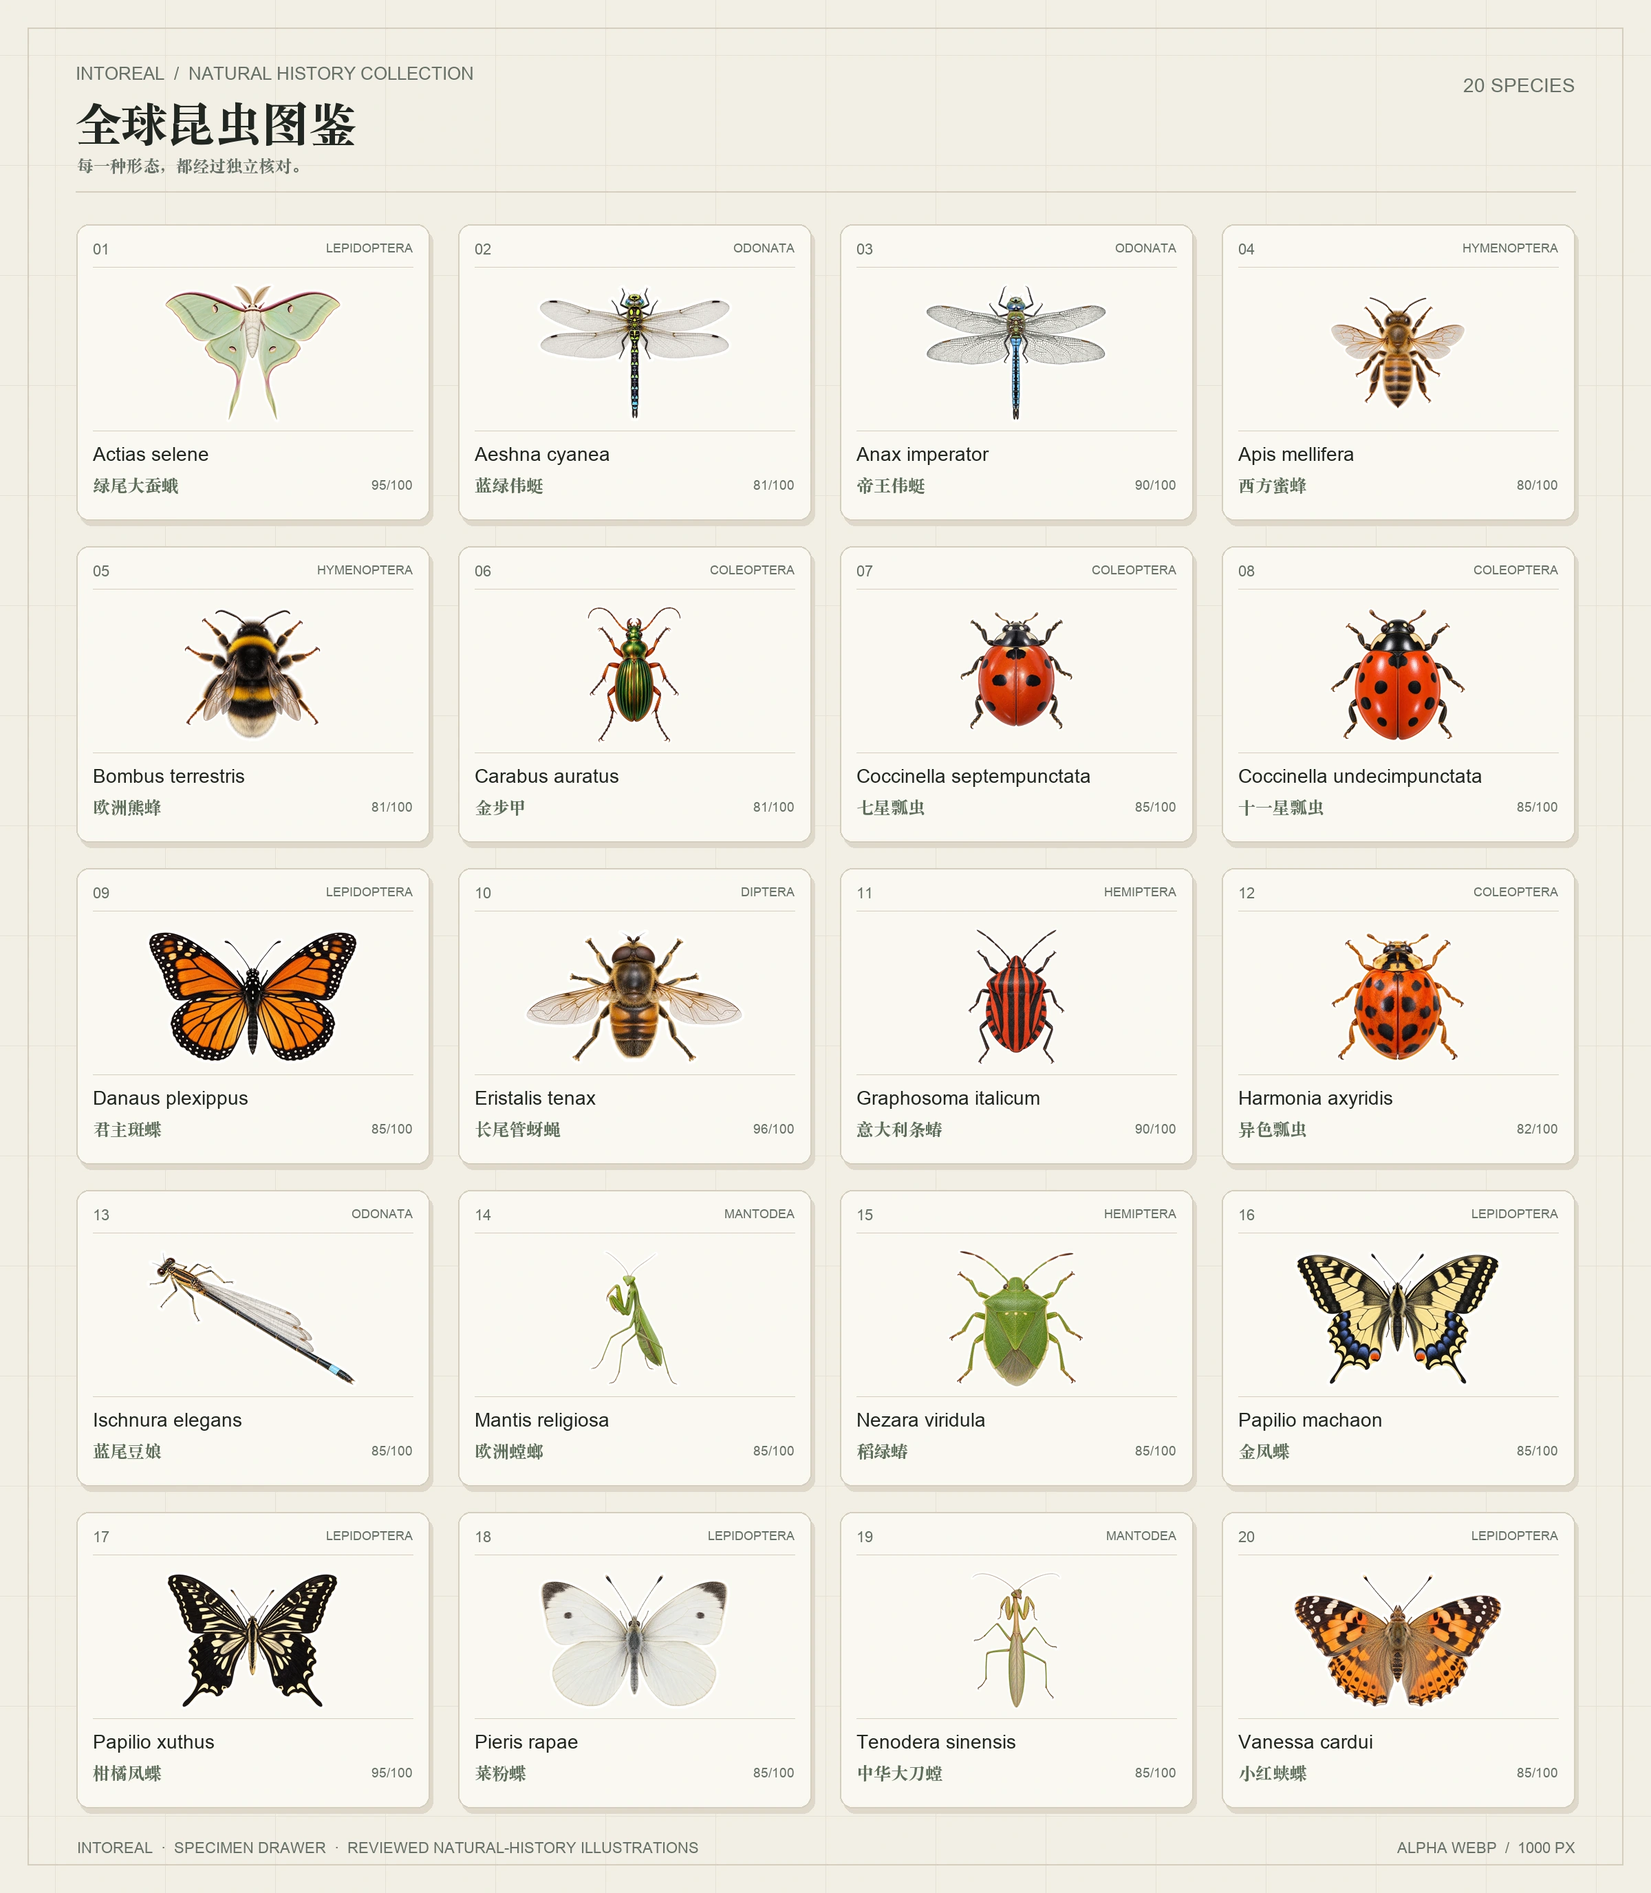
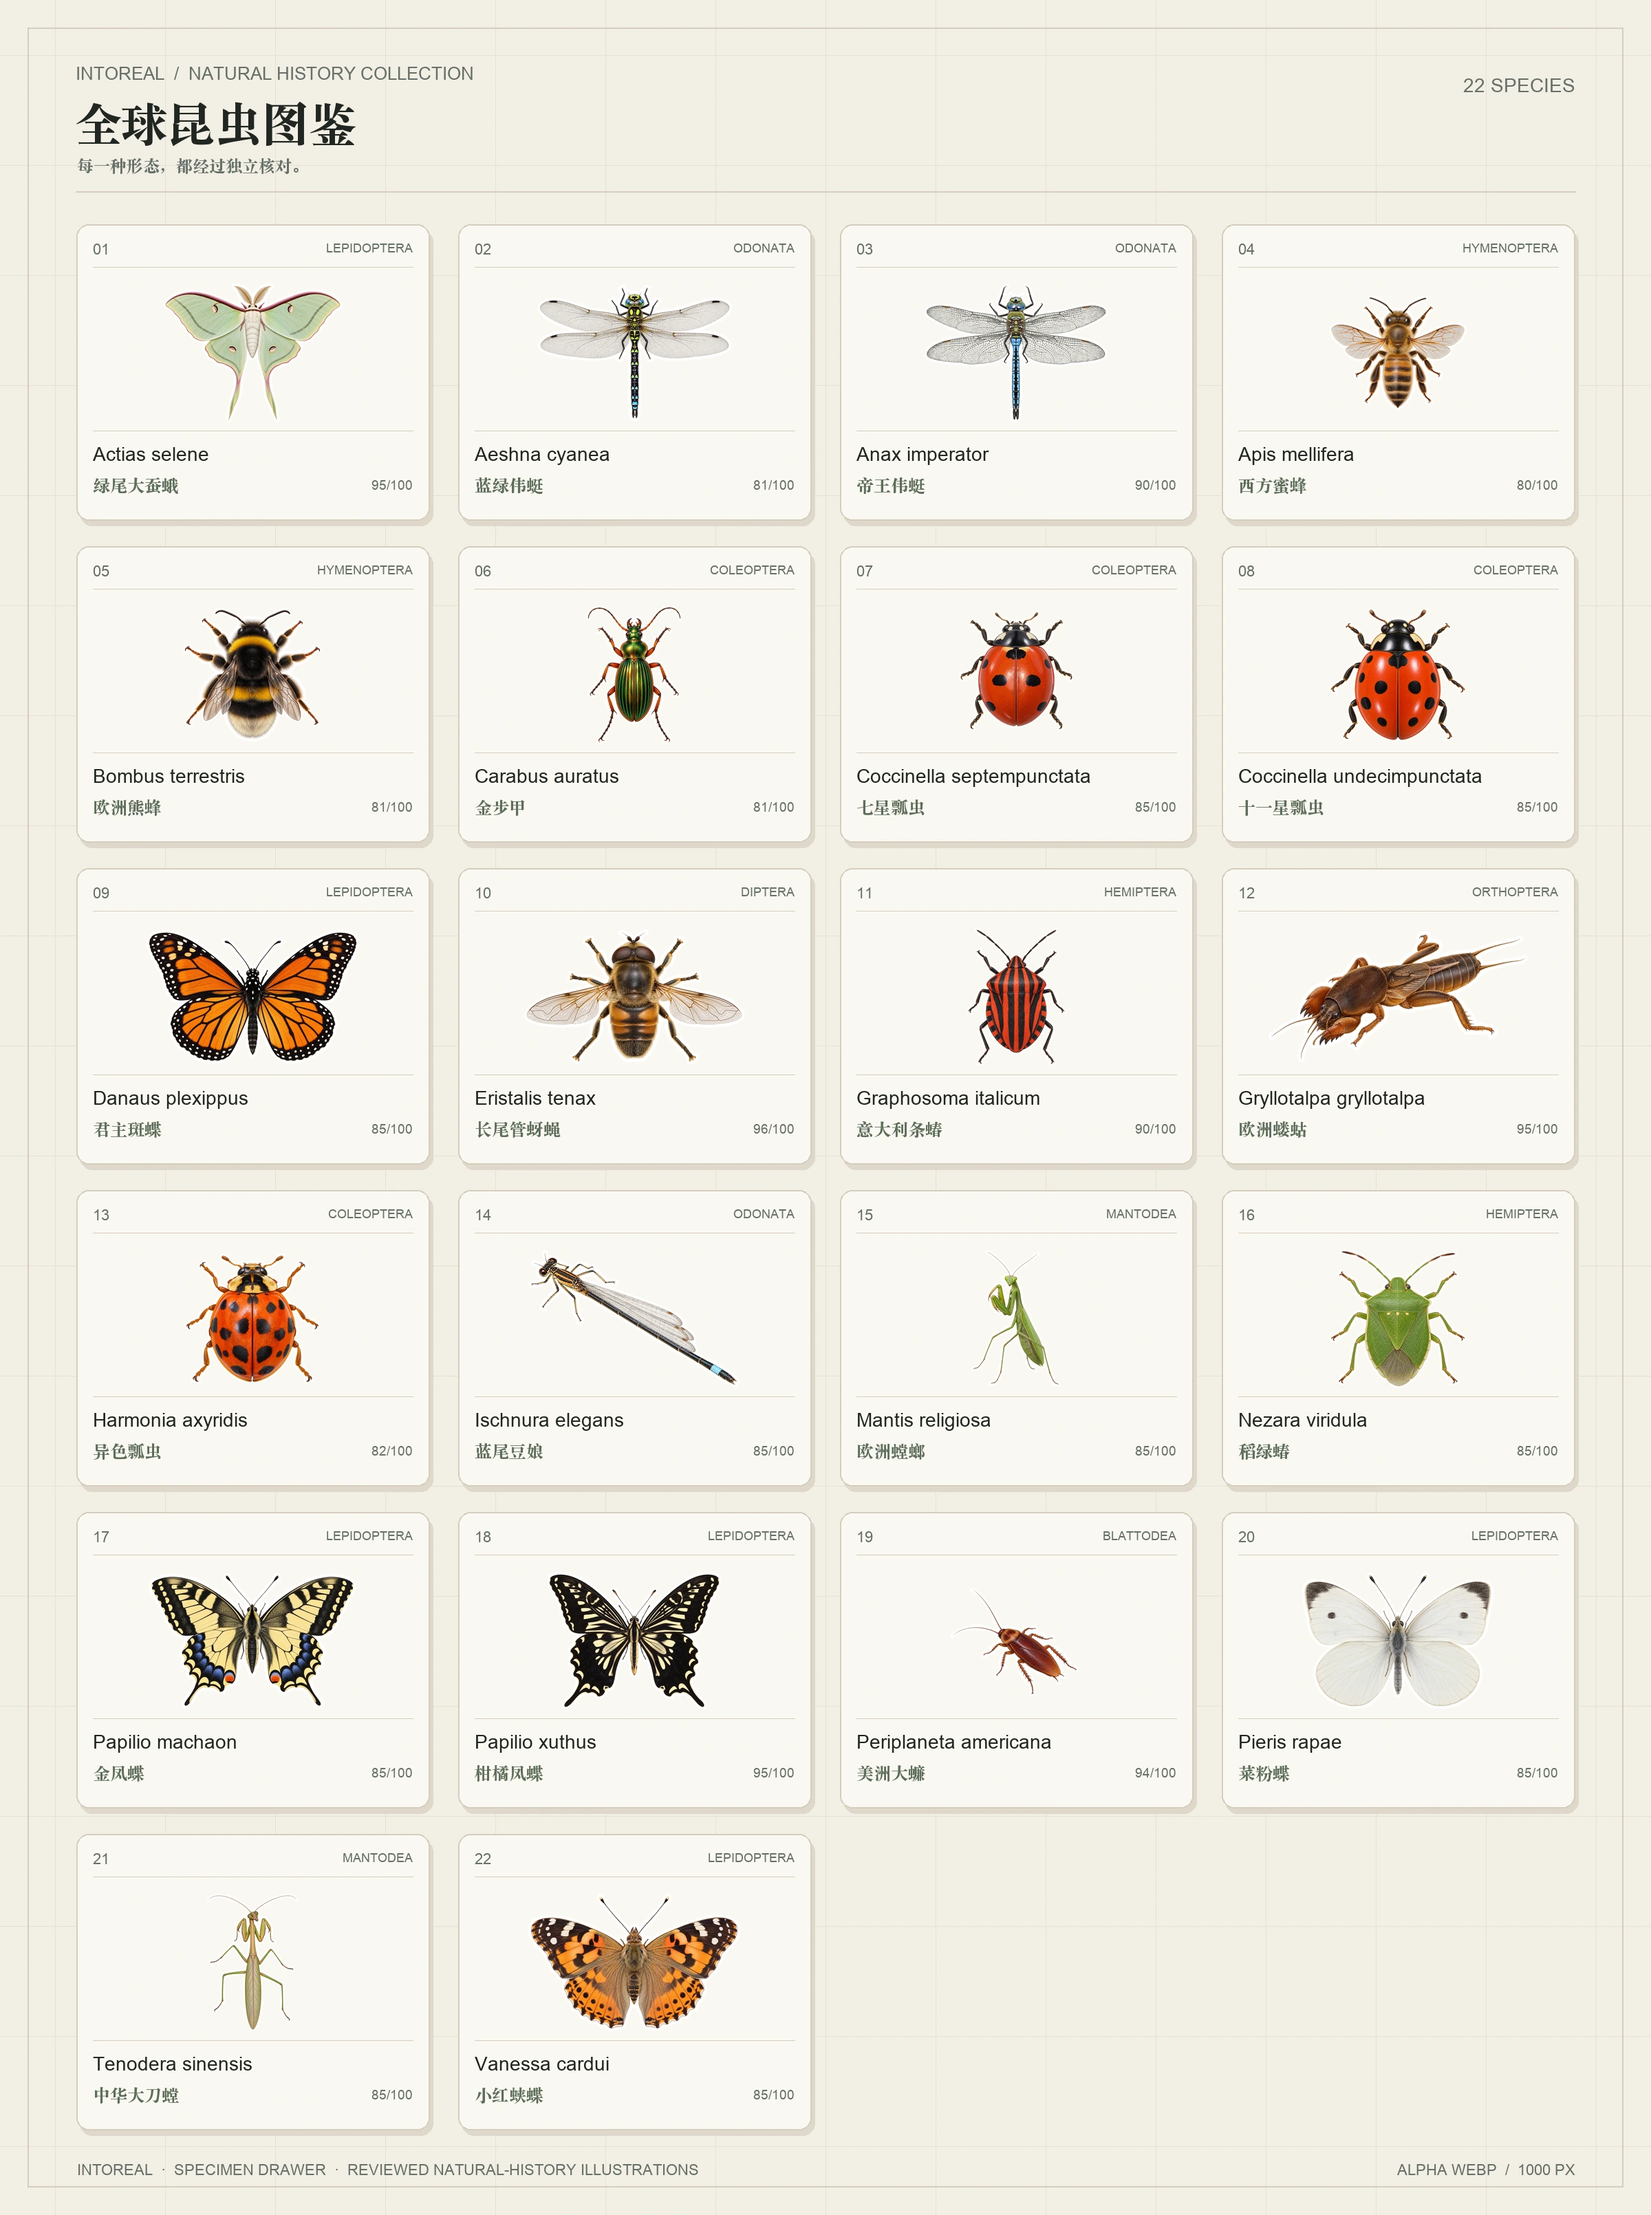
data: publish pilot insects and refresh field guides

diff --git a/tests/test_expansion_candidates.py b/tests/test_expansion_candidates.py
@@ -51,11 +51,12 @@ class ExpansionCandidateTests(unittest.TestCase):
                 self.assertIn(reference["imageReview"], {"pending", "approved"})
                 self.assertNotIn("localPath", reference)
 
-    def test_three_pilot_ready_candidates(self):
+    def test_pilot_batch_outcomes(self):
         pilots = [row for row in self.rows if row.get("pilot") is True]
         self.assertEqual(len(pilots), 3)
+        outcomes = {}
         for row in pilots:
-            self.assertEqual(row["status"], "pilot-ready")
+            outcomes[row["status"]] = outcomes.get(row["status"], 0) + 1
             self.assertEqual(row["reviewProtocolVersion"], 2)
             self.assertGreaterEqual(len(row["references"]), 2)
             self.assertEqual(sum(ref["role"] == "primary-pose" for ref in row["references"]), 1)
@@ -63,6 +64,15 @@ class ExpansionCandidateTests(unittest.TestCase):
                 self.assertEqual(reference["imageReview"], "approved")
                 self.assertEqual(reference["archive"], "local-only")
                 self.assertRegex(reference["sha256"], r"^[0-9a-f]{64}$")
+            if row["status"] == "published":
+                self.assertGreaterEqual(row["reviewScore"], 80)
+                self.assertGreaterEqual(row["primaryReviewScore"], 80)
+                self.assertTrue(row["sticker"].startswith("stickers/"))
+            else:
+                self.assertEqual(row["status"], "blocked")
+                self.assertNotIn("sticker", row)
+                self.assertTrue(row["blockingReason"])
+        self.assertEqual(outcomes, {"published": 2, "blocked": 1})
 
 
 if __name__ == "__main__":

diff --git a/README.md b/README.md
@@ -6,7 +6,7 @@
 
 **English** · [简体中文](README.zh-Hans.md)
 
-The initial public release contains **20 reviewed species across 7 orders and 12 families**. Additional species are added only after passing the same reference, generation, technical and independent review pipeline. The dataset currently uses **46 language codes**, with coverage varying by the labels actually available in Wikidata.
+The public library currently contains **22 reviewed species across 9 orders and 14 families**. Additional species are added only after passing the same reference, generation, technical and independent review pipeline. The dataset currently uses **46 language codes**, with coverage varying by the labels actually available in Wikidata.
 
 **License in short:** stickers and previews may be used, copied, modified and shared, including commercially, **except to provide a competing IntoREAL insect-identification or illustrated field-guide product**. Credit IntoReal-insect-sticker with a link to this repository. Project-compiled data is MIT; third-party material keeps its own terms. See [LICENSE.md](LICENSE.md) and [NOTICE.md](NOTICE.md).
 
@@ -23,6 +23,14 @@ Every image below is generated from the approved public stickers. Only species t
 ### Ladybirds · *Coccinellidae* — 4 species
 
 ![Ladybirds](previews/families/coccinellidae.webp)
+
+### Mole crickets · *Gryllotalpidae* — 1 species
+
+![Mole crickets](previews/families/gryllotalpidae.webp)
+
+### Cockroaches · *Blattidae* — 1 species
+
+![Cockroaches](previews/families/blattidae.webp)
 
 ### Swallowtails · *Papilionidae* — 2 species
 
@@ -81,10 +89,10 @@ Every image below is generated from the approved public stickers. Only species t
 | `data/species.csv` | The same core data flattened for spreadsheets |
 | `data/names.csv` | Names in 46 language codes, including regional variants |
 | `data/languages.json` | Language codes and their sources |
-| `data/field-guide.zh-Hans.json` | Chinese appearance, identification and similar-species notes for 20 species, CC BY-SA 4.0 |
+| `data/field-guide.zh-Hans.json` | Chinese appearance, identification and similar-species notes for 22 species, CC BY-SA 4.0 |
 | `data/candidates-20.json` | The first formal candidate set, including 3 blocked items not admitted to the public dataset |
 | `data/candidates-next.json` | The completed 3-species expansion batch |
-| `data/candidates-expansion-30.json` | Evidence matrix for 30 candidates across 6 orders and 6 continental sampling regions, with 3 pilot-ready tasks; other entries are not approved for generation yet |
+| `data/candidates-expansion-30.json` | Evidence matrix for 30 candidates across 6 orders and 6 continental sampling regions, with 2 published pilots and 1 blocked locust; other entries are not approved for generation yet |
 | `previews/` | Header, hero, order and family specimen drawers |
 | `scripts/` | Codex CLI pipeline, Issue worker, v2 task generator, metadata enrichment and preview rendering |
 | `tests/` | Standard-library regression tests for task validation, isolated review, retry, replacement and Issue closure; run `python3 -m unittest discover -s tests -v` |
@@ -134,13 +142,13 @@ A record looks like this (some fields are omitted for readability):
 
 ## Coverage
 
-- **Published stickers:** 20 species across 7 orders and 12 families.
+- **Published stickers:** 22 species across 9 orders and 14 families.
 - **Names:** 46 language codes, sourced from Wikidata labels where available; missing labels remain empty rather than being machine-translated.
-- **Identifiers:** all 20 species have exact-match GBIF and Wikidata IDs, plus taxonomic authority from GBIF.
+- **Identifiers:** all 22 species have exact-match GBIF and Wikidata IDs, plus taxonomic authority from GBIF.
 - **Conservation:** 6 species currently have an IUCN LC record from Wikidata; other conservation fields remain empty when no claim exists.
 - **Traits:** 3 species currently have a wingspan record from Wikidata; unsupported traits are not inferred.
-- **Chinese field guide:** 20 species with appearance, identification and similar-species notes.
-- **Blocked candidates:** Pantala flavescens, Lucilia sericata and Vespa mandarinia remain outside the public sticker dataset because they did not meet the quality bar.
+- **Chinese field guide:** 22 species with appearance, identification and similar-species notes.
+- **Blocked candidates:** Pantala flavescens, Lucilia sericata, Vespa mandarinia and Schistocerca gregaria remain outside the public sticker dataset because they did not meet the quality bar.
 
 The initial candidate set is not a claim of worldwide or regional completeness. New species are appended through the same production and review process.
 

diff --git a/README.zh-Hans.md b/README.zh-Hans.md
@@ -6,7 +6,7 @@
 
 [English](README.md) · **简体中文**
 
-首次公开发布包含 **7 个目、12 个科的 20 个已审核物种**。后续物种只有在通过同一套参考、生成、技术检查和独立审核流程后才会加入。当前数据使用 **46 个语言代码**，具体名称覆盖以 Wikidata 实际存在的标签为准。
+当前公开图鉴包含 **9 个目、14 个科的 22 个已审核物种**。后续物种只有在通过同一套参考、生成、技术检查和独立审核流程后才会加入。当前数据使用 **46 个语言代码**，具体名称覆盖以 Wikidata 实际存在的标签为准。
 
 **许可简述：** 贴纸和预览图可以用于任何用途，包括商用、复制、修改和再分发，**唯一的例外是提供与 IntoReal 竞争的昆虫识别或图鉴产品**。使用时注明 IntoReal-insect-sticker 并附仓库链接即可。项目整理的数据采用 MIT，第三方材料保留各自条款。详见 [LICENSE.md](LICENSE.md) 和 [NOTICE.md](NOTICE.md)。
 
@@ -23,6 +23,14 @@
 ### 瓢虫科 · *Coccinellidae* — 4 种
 
 ![瓢虫科](previews/families/coccinellidae.webp)
+
+### 蝼蛄科 · *Gryllotalpidae* — 1 种
+
+![蝼蛄科](previews/families/gryllotalpidae.webp)
+
+### 蜚蠊科 · *Blattidae* — 1 种
+
+![蜚蠊科](previews/families/blattidae.webp)
 
 ### 凤蝶科 · *Papilionidae* — 2 种
 
@@ -81,10 +89,10 @@
 | `data/species.csv` | 核心数据的表格展开版本 |
 | `data/names.csv` | 46 个语言代码的名称，包括地区变体 |
 | `data/languages.json` | 语言代码及来源 |
-| `data/field-guide.zh-Hans.json` | 20 个物种的中文形态、辨识和相似种说明，CC BY-SA 4.0 |
+| `data/field-guide.zh-Hans.json` | 22 个物种的中文形态、辨识和相似种说明，CC BY-SA 4.0 |
 | `data/candidates-20.json` | 首批正式候选，其中 3 个 blocked 项不进入公开贴纸库 |
 | `data/candidates-next.json` | 已完成生产的 3 个扩充物种 |
-| `data/candidates-expansion-30.json` | 6 目、6 个洲际采样区域的 30 种证据矩阵，其中 3 种已具备试点条件；其余候选尚未获准生图 |
+| `data/candidates-expansion-30.json` | 6 目、6 个洲际采样区域的 30 种证据矩阵，3 个试点中 2 种已发布、1 种保持 blocked；其余候选尚未获准生图 |
 | `previews/` | 首页、目级和科级标本图版 |
 | `scripts/` | Codex CLI 流水线、Issue worker、v2 任务包生成、元数据补充和预览渲染脚本 |
 | `tests/` | 任务校验、独立审核、技术重试、修订替换和 Issue 收尾的回归测试；运行 `python3 -m unittest discover -s tests -v` |
@@ -134,13 +142,13 @@
 
 ## 覆盖情况
 
-- **公开贴纸：** 7 个目、12 个科的 20 个物种。
+- **公开贴纸：** 9 个目、14 个科的 22 个物种。
 - **名称：** 46 个语言代码，使用 Wikidata 实际标签；缺失标签保持为空，不做机器翻译补全。
-- **标识：** 20 个物种均具有精确匹配的 GBIF 和 Wikidata ID，以及 GBIF 命名权威。
+- **标识：** 22 个物种均具有精确匹配的 GBIF 和 Wikidata ID，以及 GBIF 命名权威。
 - **保护状态：** 目前 6 个物种具有来自 Wikidata 的 IUCN LC 记录；没有声明的保护字段保持为空。
 - **形态数据：** 目前 3 个物种具有 Wikidata 翅展记录；其他没有证据的形态字段不作推断。
-- **中文图鉴：** 20 个物种的形态、辨识和相似种说明。
-- **Blocked 候选：** 黄蜻、丝光绿蝇和金环胡蜂因未达到质量标准，未进入公开贴纸数据集。
+- **中文图鉴：** 22 个物种的形态、辨识和相似种说明。
+- **Blocked 候选：** 黄蜻、丝光绿蝇、金环胡蜂和沙漠蝗因未达到质量标准，未进入公开贴纸数据集。
 
 首批候选不代表全球或地区完整性。后续物种也必须经过相同的生产和审核流程。
 

diff --git a/data/README.md b/data/README.md
@@ -10,10 +10,10 @@
 | `species.csv` | `species.json` 的表格展开版本 | 同上 |
 | `names.csv` | 物种学名与当前可用语言名称 | 项目整理部分 MIT；Wikidata 标签 CC0 |
 | `languages.json` | 当前名称字段及来源 | MIT |
-| `field-guide.zh-Hans.json` | 20 个已发布物种的中文形态、辨识和相似种说明 | CC BY-SA 4.0；basedOn 记录分类与形态依据 |
+| `field-guide.zh-Hans.json` | 22 个已发布物种的中文形态、辨识和相似种说明 | CC BY-SA 4.0；basedOn 记录分类与形态依据 |
 | `candidates-20.json` | 首批 20 种生产候选及参考元数据，不代表已通过审核 | 项目整理部分 MIT；参考照片保留各自许可 |
 | `candidates-next.json` | 已完成生产的 3 个扩充物种及参考元数据 | 项目整理部分 MIT；参考照片保留各自许可 |
-| `candidates-expansion-30.json` | 30 种证据矩阵，含分类、采样地区、参考视角、作者、许可与核验状态；只有 `pilot-ready` 可进入本批生产 | 项目整理部分 MIT；参考照片保留各自许可 |
+| `candidates-expansion-30.json` | 30 种证据矩阵，含分类、采样地区、参考视角、作者、许可与核验状态；试点 3 种中 2 种已发布、1 种 blocked，仅通过双审者公开 | 项目整理部分 MIT；参考照片保留各自许可 |
 
 ## 贴纸路径
 
